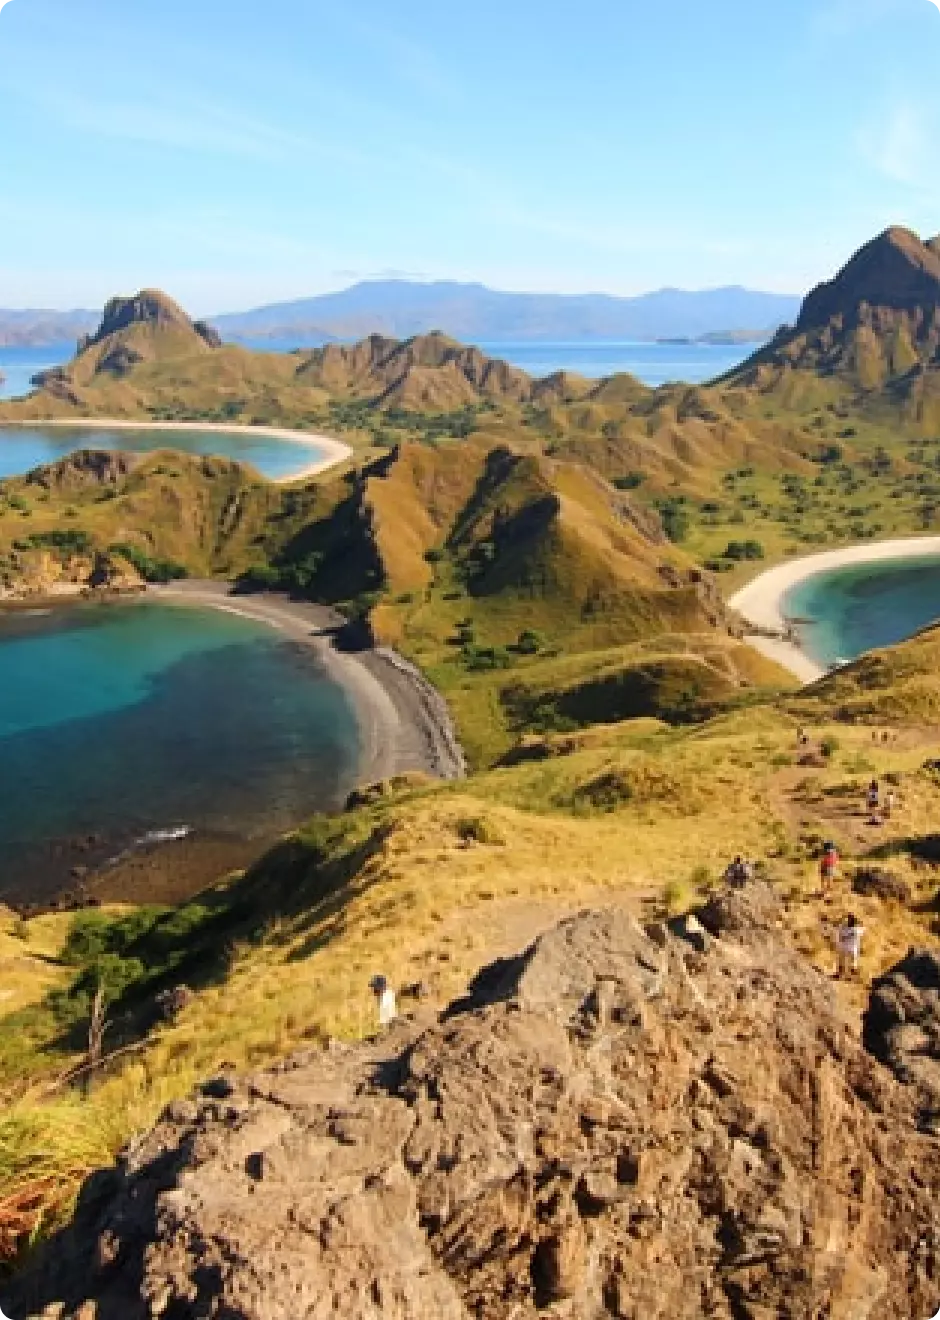
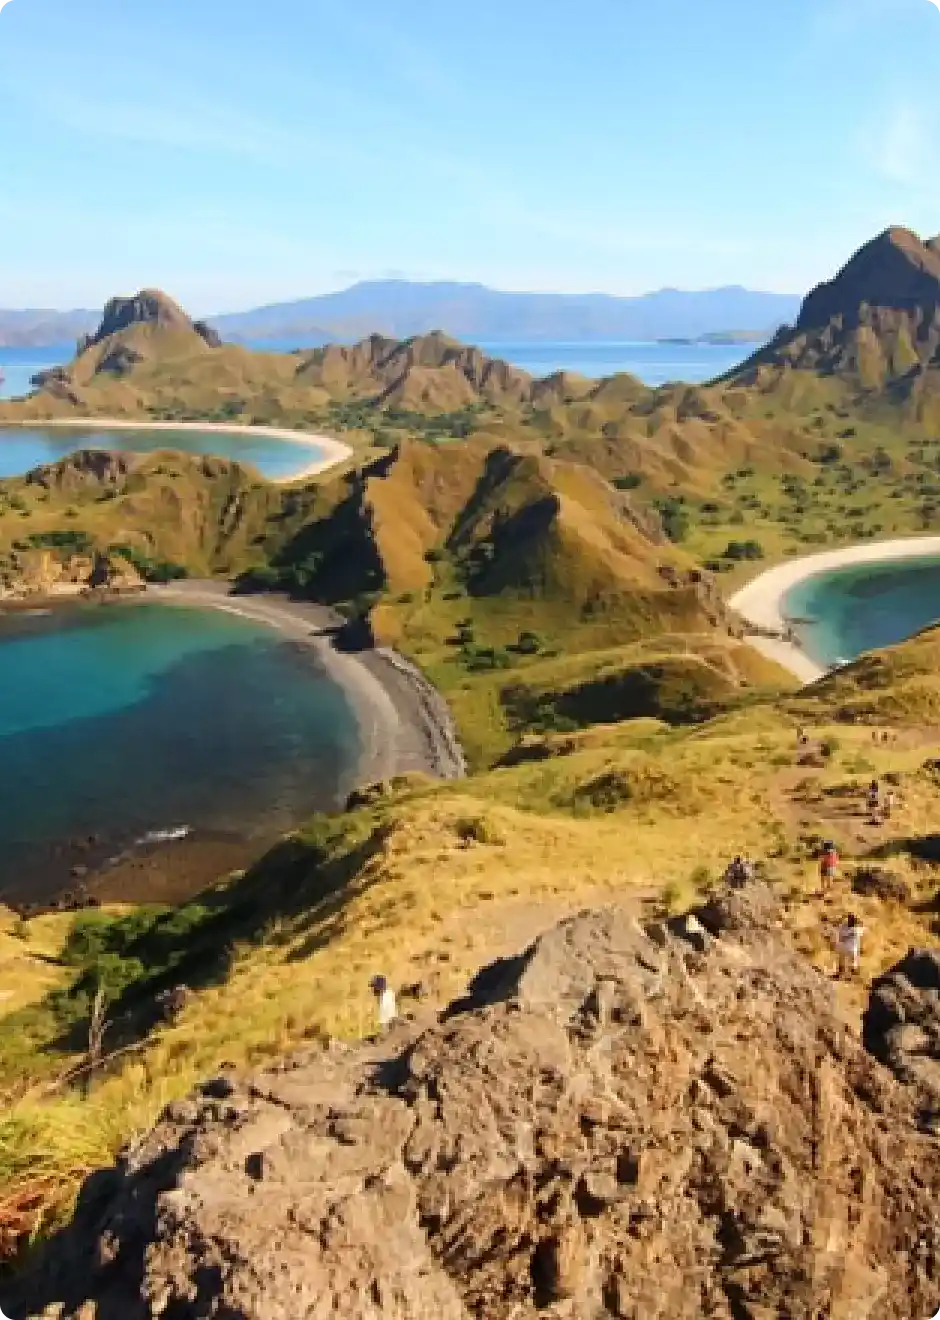
Image optimization

diff --git a/components/OurServices/OurServices.jsx b/components/OurServices/OurServices.jsx
@@ -31,15 +31,15 @@ const services = () => {
         </div>
         <div className='absolute -right-5 sm:-right-7 lg:-right-10 xl:-right-12 2xl:-right-8 -top-5 sm:-top-20 lg:-top-24 2xl:-top-28 sm:w-16 lg:w-28 xl:w-36 sm:h-16 lg:h-28 xl:h-36 -z-10'>
           <Image
-          src="/Images/dotted-square-1.png"
-          alt="Dotted Square"
-          layout='fill'/>
+            src="/Images/dotted-square-1.png"
+            alt="Dotted Square"
+            layout='fill' />
         </div>
         <div className='absolute  sm:-left-5 lg:-left-10 xl:-left-7 2xl:-left-10 sm:-bottom-10 lg:-bottom-5 2xl:-bottom-6 sm:w-14 md:w-16 lg:w-20 xl:w-24 sm:h-14 md:h-16 lg:h-20 xl:h-24'>
           <Image
-          src="/Images/dotted-square-2.png"
-          alt="Dotted Square"
-          layout='fill'/>
+            src="/Images/dotted-square-2.png"
+            alt="Dotted Square"
+            layout='fill' />
         </div>
       </div>
 
@@ -61,18 +61,20 @@ const services = () => {
             <button className="font-medium sm:font-semibold flex mx-auto sm:mx-0 bg-sp-orange text-xs lg:text-sm 2xl:text-base px-5 md:px-6 mt-5 py-1 h-9 md:h-[45px] rounded-sm text-white sm:ml-auto cursor-pointer
              spHoverButton1 hover:bg-inherit place-items-center">{officeOptions.buttonName}</button>
           </Link>
-        <div className='absolute sm:-right-3 md:-right-6 lg:-right-8 sm:-top-3 lg:-top-5 sm:w-10 md:w-14 lg:w-20 sm:h-10 md:h-14 lg:h-20'>
-          <Image
-          src="/Images/dotted-square-2.png"
-          alt="Dotted Square"
-          layout='fill'/>
-        </div>
+          <div className='absolute sm:-right-3 md:-right-6 lg:-right-8 sm:-top-3 lg:-top-5 sm:w-10 md:w-14 lg:w-20 sm:h-10 md:h-14 lg:h-20'>
+            <Image
+              src="/Images/dotted-square-2.png"
+              alt="Dotted Square"
+              layout='fill'
+              quality={50}
+            />
+          </div>
         </div>
         <div className='absolute -left-5 sm:-left-7 lg:-left-10 xl:-left-12 2xl:-left-16 -bottom-5 sm:-bottom-20 lg:-bottom-24 2xl:-bottom-20 sm:w-16 lg:w-28 xl:w-36 sm:h-16 lg:h-28 xl:h-36 -z-10'>
           <Image
-          src="/Images/dotted-square-1.png"
-          alt="Dotted Square"
-          layout='fill'/>
+            src="/Images/dotted-square-1.png"
+            alt="Dotted Square"
+            layout='fill' />
         </div>
       </div>
 

diff --git a/components/Discover/ImageHolder.jsx b/components/Discover/ImageHolder.jsx
@@ -7,6 +7,7 @@ const ImageHolder = ({src,firstText,secondText}) => {
                 src={src}
                 alt='nature'
                 layout='fill'
+                quality={40}
             />
             <div className='relative mt-auto top-[50px]'>
                 <p className='font-light sm:font-normal text-sm md:text-base xl:text-spSize2 text-black z-10'>{firstText}</p>

diff --git a/components/Main/Main.jsx b/components/Main/Main.jsx
@@ -20,6 +20,7 @@ const Main = () => {
               src={"/Images/house.webp"}
               alt="house"
               layout='fill'
+              quality={50}
             />
           </div>
           <div className="relative  place-self-end w-[50px] h-[300px] md:h-[480px] lg:h-[530px] xl:h-[680px] hidden lg:flex">

diff --git a/components/FeaturedProperties/Property.jsx b/components/FeaturedProperties/Property.jsx
@@ -33,6 +33,7 @@ const Property = ({
                             layout="fill"
                             alt="house"
                             className="rounded-lg"
+                            quality={40}
                         />
                     </div>
                 </div>
